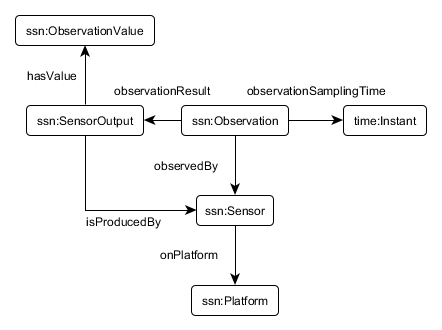
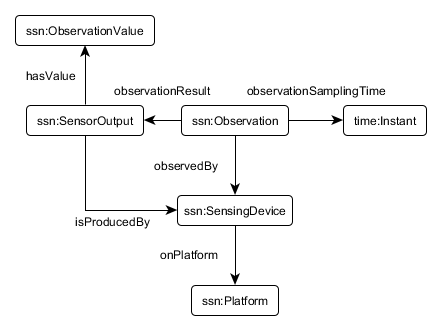
Add schema info
Add info on schema and data model

Changed region(s): [[0.3824, 0.5758, 0.6765, 0.697], [0.1765, 0.6364, 0.3824, 0.697], [0.0588, 0.2121, 0.1765, 0.2424]]

diff --git a/views/info/datamodel.php b/views/info/datamodel.php
@@ -4,14 +4,38 @@
         <h1>Data Model</h1>
     </div>
 
+    <p>Linked Data is a powerful way of presenting and publishing data. One way to think of Linked Data is as modular LEGO® blocks which fit together and can easily be used to build all sorts of structures.</p>
+    <p>The Internet of Things should be about machines talking to connected machines. Linked Data is a powerful option for devices to be interoperable - in another words, to understand each other.</p>
+    <p>The PiSmartHome follows Linked Data conventions making it compatible with other data sources on the <a href="http://semanticweb.org/">Semantic Web</a> and other devices that serve Linked Data.</p>
+    <p>Data is modelled from the Smart Home sensors based on the <a href="http://purl.oclc.org/NET/ssnx/ssn">Semantic Sensor Network Ontology (SSN)</a>. A basic data model is described as follows.</p>
     <img src="/img/basic_ontology_ssn.png" class="img-responsive" alt="Data Model">
     <div class="caption">
-        <p>Data Model using the <a href="http://purl.oclc.org/NET/ssnx/ssn">Semantic Sensor Network Ontology</a></p>
+        <p>Basic Data Model based on the <a href="http://purl.oclc.org/NET/ssnx/ssn">SSN</a></p>
+    </div>
+    <p>An extension to the SSN, the  <a href="http://purl.oclc.org/NET/iot">Semantic Internet of Things Ontology(IoT Ontology)</a>, has been designed to provide specific representations for sensors on Internet of Things devices. The PiSmartHome is a model for this ontology's development. An example of a environmental weather sensor in the Smart Home is visualised as follows.</p>
+    <img src="/img/weather_ontology_iot.png" class="img-responsive" alt="Data Model">
+    <div class="caption">
+        <p>The <a href="http://purl.oclc.org/NET/iot">IoT Ontology</a> extends the SSN for modelling Smart Home data
     </div>
 
-    <div class="col-md-6">
-        <h1></h1>
-        <p id="content" class="lead"></p>
+    <div class="page-header">
+        <h1>Links</h1>
+    </div>
+
+    <div class="list-group">
+        <a href="http://purl.oclc.org/NET/iot.owl" target="_blank" class="list-group-item">
+            <h4 class="list-group-item-heading">Download IoT OWL Ontology</h4>
+            <p class="list-group-item-text">The IoT Ontology available as an RDF/XML file.</p>
+        </a>
+        <a href="http://purl.oclc.org/NET/iot" target="_blank" class="list-group-item">
+            <h4 class="list-group-item-heading">View IoT Ontology Documentation</h4>
+            <p class="list-group-item-text">Documentation of the classes, object and data properties of the IoT Ontology and its subclassing from the OWL Time and SSN Ontologies.</p>
+        </a>
+        <a href="http://iot.ee.surrey.ac.uk/SSNValidation/" target="_blank" class="list-group-item">
+            <h4 class="list-group-item-heading">SSN Ontology Validation Tool</h4>
+            <p class="list-group-item-text">Kolozali, Sefki, Tarek Elsaleh, and Payam Barnaghi. <strong>A Validation Tool for the W3C SSN Ontology Based Sensory Semantic Knowledge.</strong></p>
+            <p class="list-group-item-text">The IoT Ontology has passed the SSN Ontology validation provided as part of the EU funded CityPulse project.</p>
+        </a>
     </div>
 
 </div><!-- /.container -->

diff --git a/index.php b/index.php
@@ -32,6 +32,14 @@ Flight::route('/info/@pageName', function($pageName){
     return true;
 });
 
+Flight::route('/iot', function(){
+    Flight::render('iot/index.html');
+});
+
+Flight::route('/iot.owl', function(){
+    Flight::redirect('iot/iot.owl');
+});
+
 Flight::route('*', function(){
     Flight::render('layout', array('title' => 'PiSmartHome'));
 });
